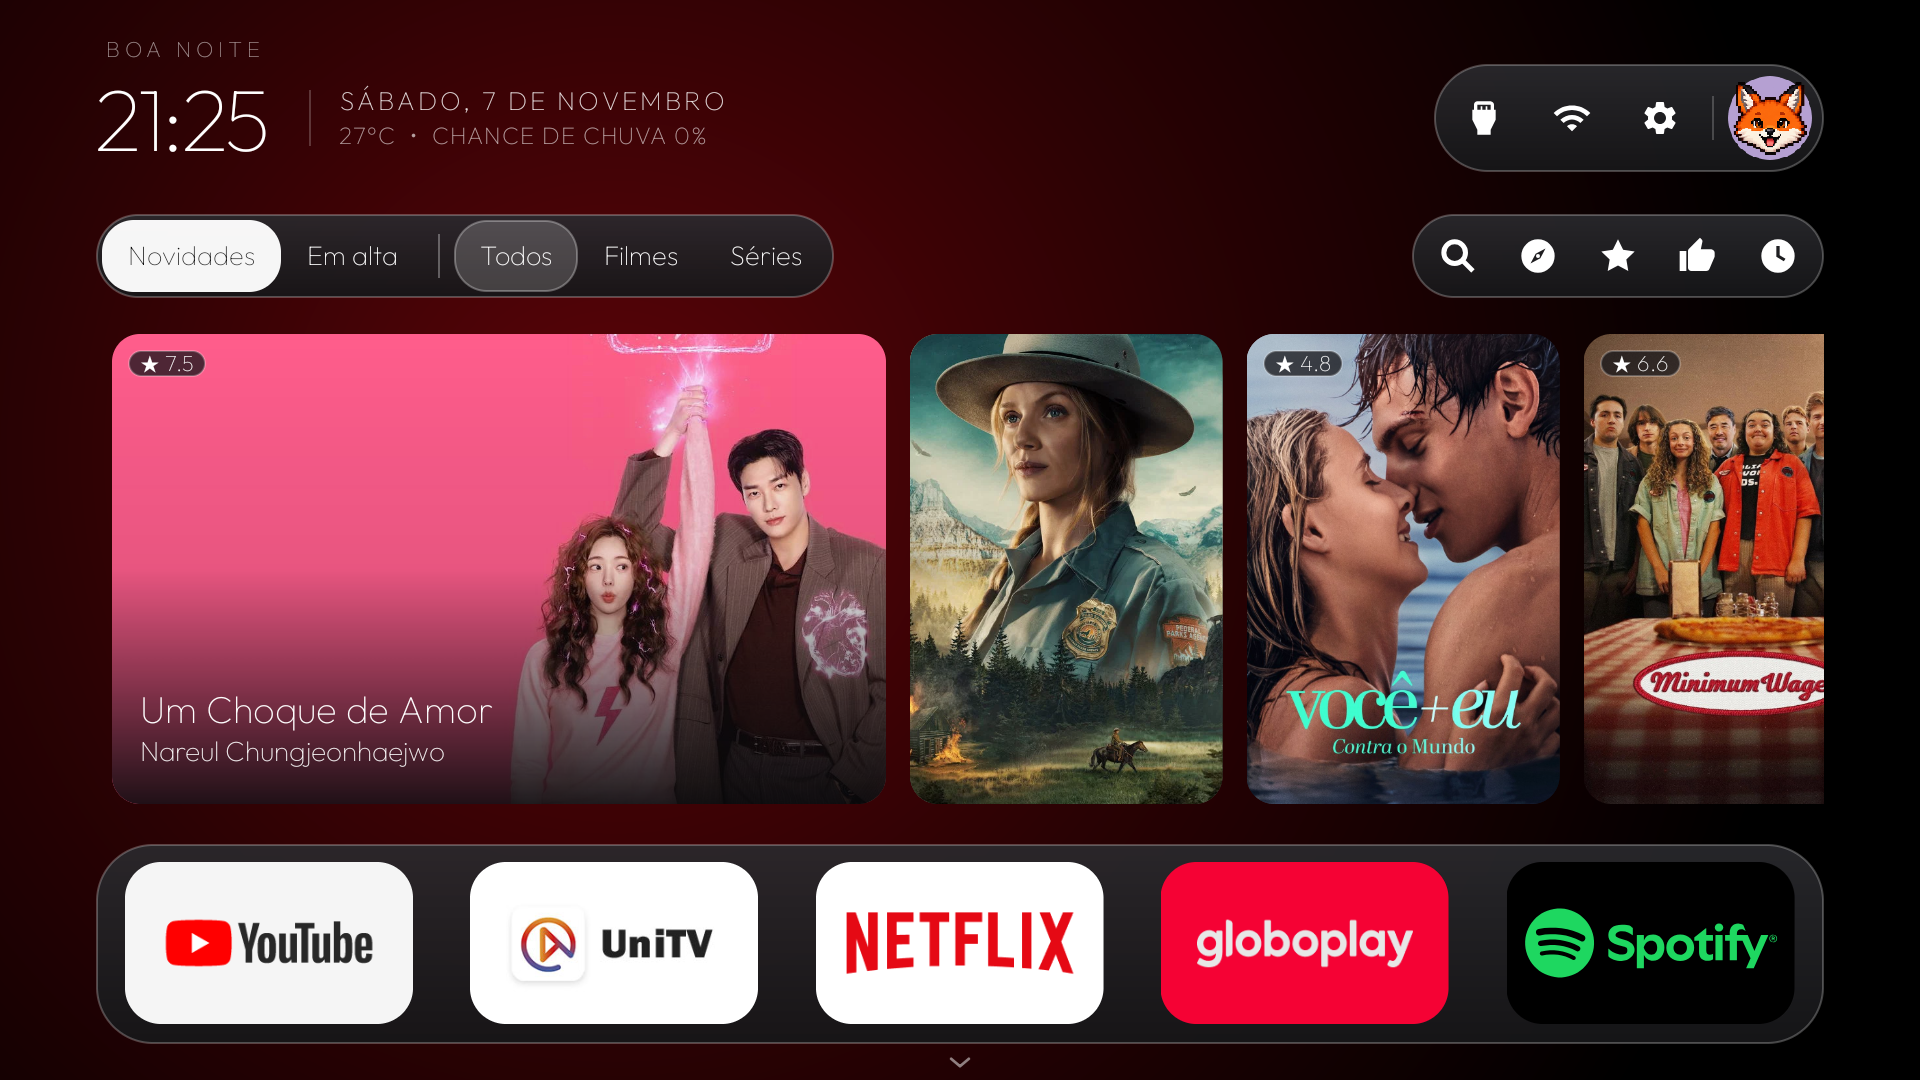
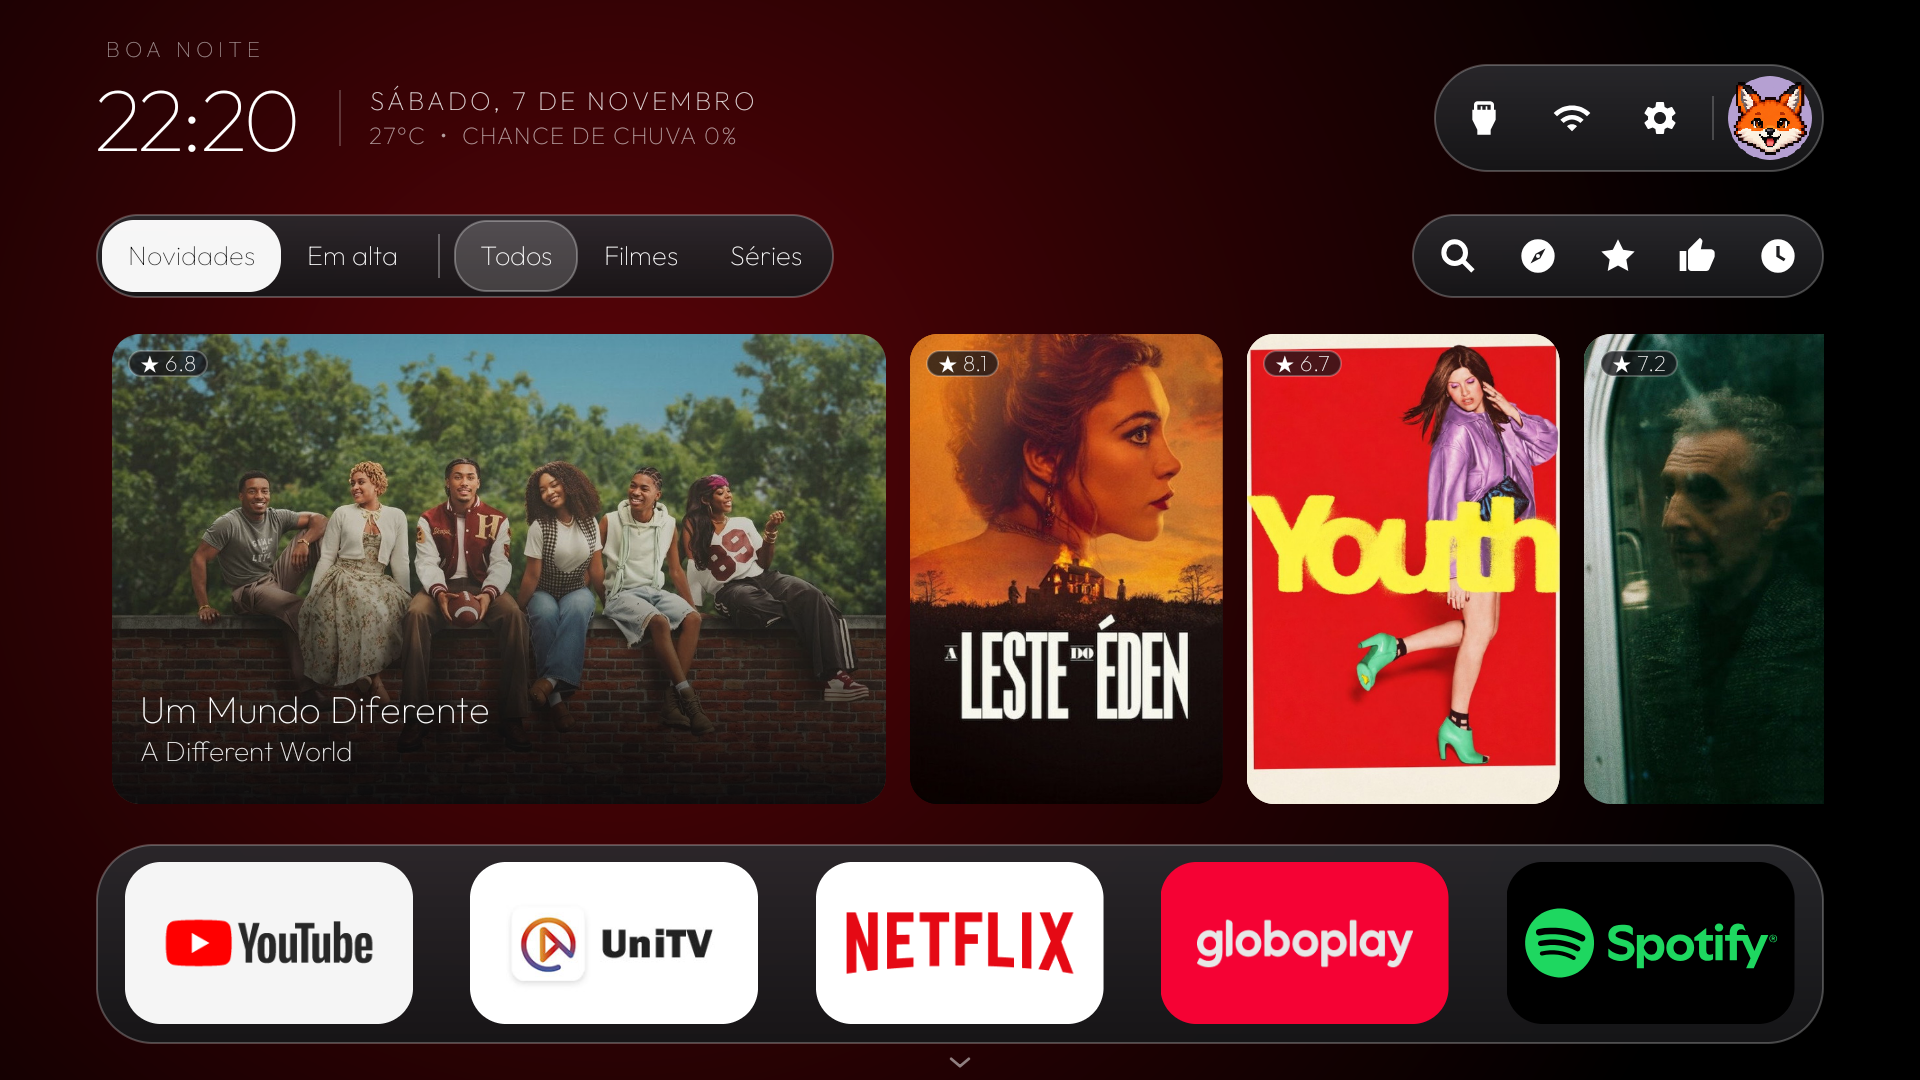
Refine feature previews with real TV screens

diff --git a/docs/index.html b/docs/index.html
@@ -10,19 +10,18 @@
     *{box-sizing:border-box}html{scroll-behavior:smooth}body{margin:0;background:radial-gradient(circle at 78% -10%,#283b53 0,#090a0f 35%),var(--bg);color:var(--ink);font:16px/1.6 system-ui,-apple-system,BlinkMacSystemFont,"Segoe UI",sans-serif}a{color:inherit}.wrap{width:min(var(--max),calc(100% - 40px));margin:auto}.topbar{display:flex;align-items:center;justify-content:space-between;padding:22px 0}.brand{display:flex;align-items:center;gap:12px;text-decoration:none;font-weight:800;letter-spacing:.12em}.brand img{width:42px;height:42px;object-fit:cover;border-radius:12px}.nav{display:flex;gap:20px;color:var(--muted);font-size:.92rem}.nav a{text-decoration:none}.nav a:hover{color:var(--cyan)}
     .hero{display:grid;grid-template-columns:1.02fr .98fr;gap:56px;align-items:center;padding:70px 0 96px}.eyebrow{color:var(--cyan);font:700 .8rem/1.2 ui-monospace,SFMono-Regular,Consolas,monospace;letter-spacing:.17em;text-transform:uppercase}.hero h1{max-width:700px;margin:18px 0;font-size:clamp(3.2rem,7vw,6.7rem);line-height:.93;letter-spacing:-.065em}.hero h1 span{color:var(--pink)}.hero p{max-width:600px;color:var(--muted);font-size:1.15rem}.actions{display:flex;gap:12px;flex-wrap:wrap;margin-top:28px}.button{display:inline-flex;align-items:center;justify-content:center;min-height:46px;padding:10px 18px;border:1px solid var(--line);border-radius:999px;background:#ffffff0d;text-decoration:none;font-weight:700}.button.primary{background:var(--cyan);border-color:var(--cyan);color:#071018}.button:hover{transform:translateY(-1px);filter:brightness(1.08)}.hero-art{position:relative}.hero-art img{display:block;width:min(100%,480px);margin:auto;border:1px solid var(--line);border-radius:32px;box-shadow:25px 28px 0 #ff5c9a20,0 30px 100px #000b;transform:rotate(2deg)}.hero-art:after{content:"";position:absolute;z-index:-1;inset:12% 0 0 16%;border:1px solid #70e1ff33;border-radius:32px;transform:rotate(-5deg)}
     .section{padding:82px 0;border-top:1px solid var(--line)}.section-head{display:flex;align-items:end;justify-content:space-between;gap:24px;margin-bottom:30px}.section h2{max-width:700px;margin:0;font-size:clamp(2rem,4vw,3.5rem);line-height:1.02;letter-spacing:-.04em}.section-head p{max-width:430px;margin:0;color:var(--muted)}
-    .feature-grid{display:grid;grid-template-columns:repeat(3,1fr);gap:14px}.feature{padding:25px;border:1px solid var(--line);border-radius:22px;background:linear-gradient(145deg,#ffffff0c,#ffffff03);transition:border-color .18s,background .18s,transform .18s}.feature:hover,.feature:focus-visible{border-color:#70e1ff88;background:linear-gradient(145deg,#70e1ff18,#ff5c9a0d);transform:translateY(-3px);outline:none}.feature .icon{font-size:1.7rem}.feature h3{margin:15px 0 7px;font-size:1.1rem}.feature p{margin:0;color:var(--muted)}.feature-preview{position:fixed;z-index:50;width:min(360px,32vw);overflow:hidden;border:1px solid #70e1ff99;border-radius:18px;background:#11141deF;box-shadow:0 20px 70px #000b;opacity:0;pointer-events:none;transform:translateY(8px) scale(.97);transition:opacity .13s,transform .13s}.feature-preview.visible{opacity:1;transform:translateY(0) scale(1)}.feature-preview img{display:block;width:100%;aspect-ratio:16/9;object-fit:cover}.feature-preview span{display:block;padding:10px 13px;color:#dfe5f3;font-size:.82rem}.preview-mode .feature,.preview-mode .feature *{cursor:none}.integration-grid{display:grid;grid-template-columns:repeat(3,1fr);gap:14px}.integration{padding:25px;border:1px solid #70e1ff33;border-radius:22px;background:linear-gradient(145deg,#70e1ff12,#ff5c9a08)}.integration h3{margin:0 0 8px;color:var(--cyan)}.integration p{margin:0;color:var(--muted)}
-    .screens{display:grid;grid-template-columns:1.15fr .85fr;gap:18px;align-items:stretch}.shot{overflow:hidden;margin:0;border:1px solid var(--line);border-radius:24px;background:var(--panel)}.shot img{display:block;width:100%;height:100%;min-height:250px;object-fit:cover;object-position:center}.shot figcaption{padding:15px 18px;color:var(--muted);font-size:.93rem}.shot.large{grid-row:span 2}.shot.large img{min-height:510px}.shot img:hover{filter:saturate(1.15)}
+    .feature-grid{display:grid;grid-template-columns:repeat(3,1fr);gap:14px}.feature{padding:25px;border:1px solid var(--line);border-radius:22px;background:linear-gradient(145deg,#ffffff0c,#ffffff03);transition:border-color .18s,background .18s,transform .18s}.feature:hover,.feature:focus-visible{border-color:#70e1ff88;background:linear-gradient(145deg,#70e1ff18,#ff5c9a0d);transform:translateY(-3px);outline:none}.feature .icon{font-size:1.7rem}.feature h3{margin:15px 0 7px;font-size:1.1rem}.feature p{margin:0;color:var(--muted)}.feature-preview{position:fixed;z-index:50;width:min(560px,44vw);overflow:hidden;border:1px solid #70e1ff99;border-radius:18px;background:#11141deF;box-shadow:0 20px 70px #000b;opacity:0;pointer-events:none;transform:translateY(8px) scale(.97);transition:opacity .13s,transform .13s}.feature-preview.visible{opacity:1;transform:translateY(0) scale(1)}.feature-preview img{display:block;width:100%;aspect-ratio:16/9;object-fit:cover}.feature-preview span{display:block;padding:10px 13px;color:#dfe5f3;font-size:.82rem}.preview-mode .feature,.preview-mode .feature *{cursor:none}.integration-grid{display:grid;grid-template-columns:repeat(3,1fr);gap:14px}.integration{padding:25px;border:1px solid #70e1ff33;border-radius:22px;background:linear-gradient(145deg,#70e1ff12,#ff5c9a08)}.integration h3{margin:0 0 8px;color:var(--cyan)}.integration p{margin:0;color:var(--muted)}
     .compare{display:grid;grid-template-columns:1fr 1fr;gap:1px;overflow:hidden;border:1px solid var(--line);border-radius:24px;background:var(--line)}.compare>div{padding:28px;background:var(--panel)}.compare h3{margin:0 0 20px}.compare .old h3{color:#a8adbd}.compare .new h3{color:var(--cyan)}.compare p{margin:14px 0;padding-top:14px;border-top:1px solid var(--line);color:var(--muted)}.compare strong{color:var(--ink)}
     .steps{display:grid;grid-template-columns:repeat(3,1fr);gap:14px;counter-reset:step}.step{padding:25px;border:1px solid var(--line);border-radius:22px;background:var(--panel)}.step:before{counter-increment:step;content:"0" counter(step);display:block;margin-bottom:22px;color:var(--yellow);font:700 1rem ui-monospace,SFMono-Regular,Consolas,monospace}.step h3{margin:0 0 8px}.step p{margin:0;color:var(--muted)}
     .cta{display:flex;align-items:center;justify-content:space-between;gap:28px;padding:34px;border:1px solid #70e1ff55;border-radius:26px;background:linear-gradient(110deg,#70e1ff18,#ff5c9a12)}.cta h2{font-size:clamp(1.7rem,3vw,2.7rem)}.cta p{max-width:590px;margin-bottom:0;color:var(--muted)}footer{padding:32px 0 50px;color:var(--muted);font-size:.9rem}footer .footer-links{display:flex;gap:18px;flex-wrap:wrap;margin-top:8px}footer a{text-decoration:none}footer a:hover{color:var(--cyan)}
-    @media (max-width:800px){.nav{display:none}.hero{grid-template-columns:1fr;padding:48px 0 72px;gap:32px}.hero h1{font-size:clamp(3rem,15vw,5rem)}.feature-grid,.integration-grid,.steps{grid-template-columns:1fr}.screens{grid-template-columns:1fr}.shot.large{grid-row:auto}.shot.large img{min-height:0}.compare{grid-template-columns:1fr}.cta{display:block}.cta .button{margin-top:18px}}@media (hover:none){.feature-preview{display:none}}
+    @media (max-width:800px){.nav{display:none}.hero{grid-template-columns:1fr;padding:48px 0 72px;gap:32px}.hero h1{font-size:clamp(3rem,15vw,5rem)}.feature-grid,.integration-grid,.steps{grid-template-columns:1fr}.compare{grid-template-columns:1fr}.cta{display:block}.cta .button{margin-top:18px}}@media (hover:none){.feature-preview{display:none}}
     @media (prefers-reduced-motion:reduce){html{scroll-behavior:auto}.button{transition:none}.hero-art img{transform:none}}
   </style>
 </head>
 <body>
   <header class="wrap topbar">
     <a class="brand" href="./"><img src="pixel-tv-logo.jpg" alt="Logo PIXEL TV">PIXEL TV</a>
-    <nav class="nav" aria-label="Navegação principal"><a href="#recursos">Recursos</a><a href="#integracoes">Integrações</a><a href="#melhorias">Evolução</a><a href="#telas">Telas reais</a><a href="https://github.com/TheReyzer/Pixel-TV">GitHub</a></nav>
+    <nav class="nav" aria-label="Navegação principal"><a href="#recursos">Recursos</a><a href="#integracoes">Integrações</a><a href="#melhorias">Evolução</a><a href="https://github.com/TheReyzer/Pixel-TV">GitHub</a></nav>
   </header>
 
   <main>
@@ -71,15 +70,6 @@
       </div>
     </div></section>
 
-    <section id="telas" class="section"><div class="wrap">
-      <div class="section-head"><h2>Veja o sistema funcionando na TV.</h2><p>Capturas reais da versão validada em uma Android TV, não mockups.</p></div>
-      <div class="screens">
-        <figure class="shot large"><img src="screen-home.png" alt="Home do PIXEL TV com recomendações e atalhos de aplicativos"><figcaption>Home com recomendações, categorias, busca, favoritos, gostos e atalhos para apps.</figcaption></figure>
-        <figure class="shot"><img src="screen-profiles.png" alt="Tela de seleção de perfis do PIXEL TV"><figcaption>Perfis individuais com avatar, contagem de títulos e perfil Geral.</figcaption></figure>
-        <figure class="shot"><img src="screen-sync.png" alt="Menu de contas Google e sincronização do PIXEL TV"><figcaption>Uma conta Google por perfil e sincronização de todos os perfis vinculados.</figcaption></figure>
-      </div>
-    </div></section>
-
     <section class="section"><div class="wrap">
       <div class="section-head"><h2>Comece em três passos.</h2><p>Sem desativar o launcher original e sem prender seus dados a um servidor próprio.</p></div>
       <div class="steps"><article class="step"><h3>Instale</h3><p>Use o instalador do projeto em uma Android TV ou Google TV com Android 8/API 26 ou superior.</p></article><article class="step"><h3>Crie os perfis</h3><p>Escolha nome, avatar e cor. Cada pessoa mantém sua própria avaliação, lista e histórico.</p></article><article class="step"><h3>Vincule e assista</h3><p>Opcionalmente, conecte as contas Google pelo QR code exibido na TV para restaurar dados em outra tela.</p></article></div>
@@ -96,7 +86,7 @@
       const preview = document.getElementById('feature-preview');
       const image = preview.querySelector('img');
       const caption = preview.querySelector('span');
-      const screenshots = ['screen-home.png','screen-profiles.png','screen-home.png','screen-home.png','screen-home.png','screen-home.png','screen-home.png','screen-home.png','screen-sync.png'];
+      const screenshots = ['screen-home.png','screen-tastes.png','screen-tastes.png','screen-search.png','screen-detail.png','screen-trailer.png','screen-home.png','screen-home.png','screen-sync.png'];
       let active = null;
       function place(x, y) {
         const margin = 18, width = preview.offsetWidth, height = preview.offsetHeight;
